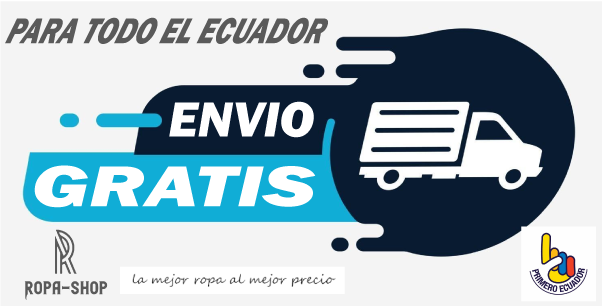
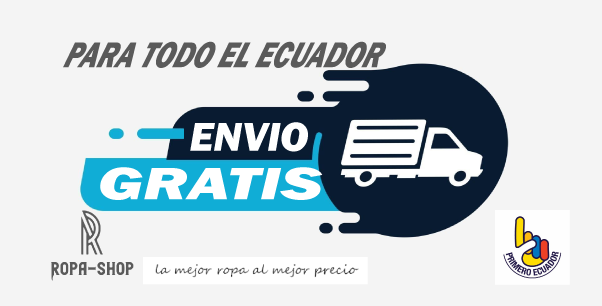
uptade

diff --git a/src/components/MainModal.jsx b/src/components/MainModal.jsx
@@ -3,6 +3,8 @@ import '../assets/styles/components/MainModal.scss';
 import 'slick-carousel/slick/slick.css';
 import 'slick-carousel/slick/slick-theme.css';
 import portada from '../assets/images/mainView/portadar1.png';
+import portada2 from '../assets/images/mainView/portadar2.png';
+
 
 export const MainModal = () => {
   const settings = {
@@ -24,7 +26,11 @@ export const MainModal = () => {
         <div>
           <img className='mainModal__img' src={portada} alt='img' />
         </div>
+        <div>
+          <img className='mainModal__img' src={portada2} alt='img' />
+        </div>
       </Slider>
     </section>
   );
+  
 };
